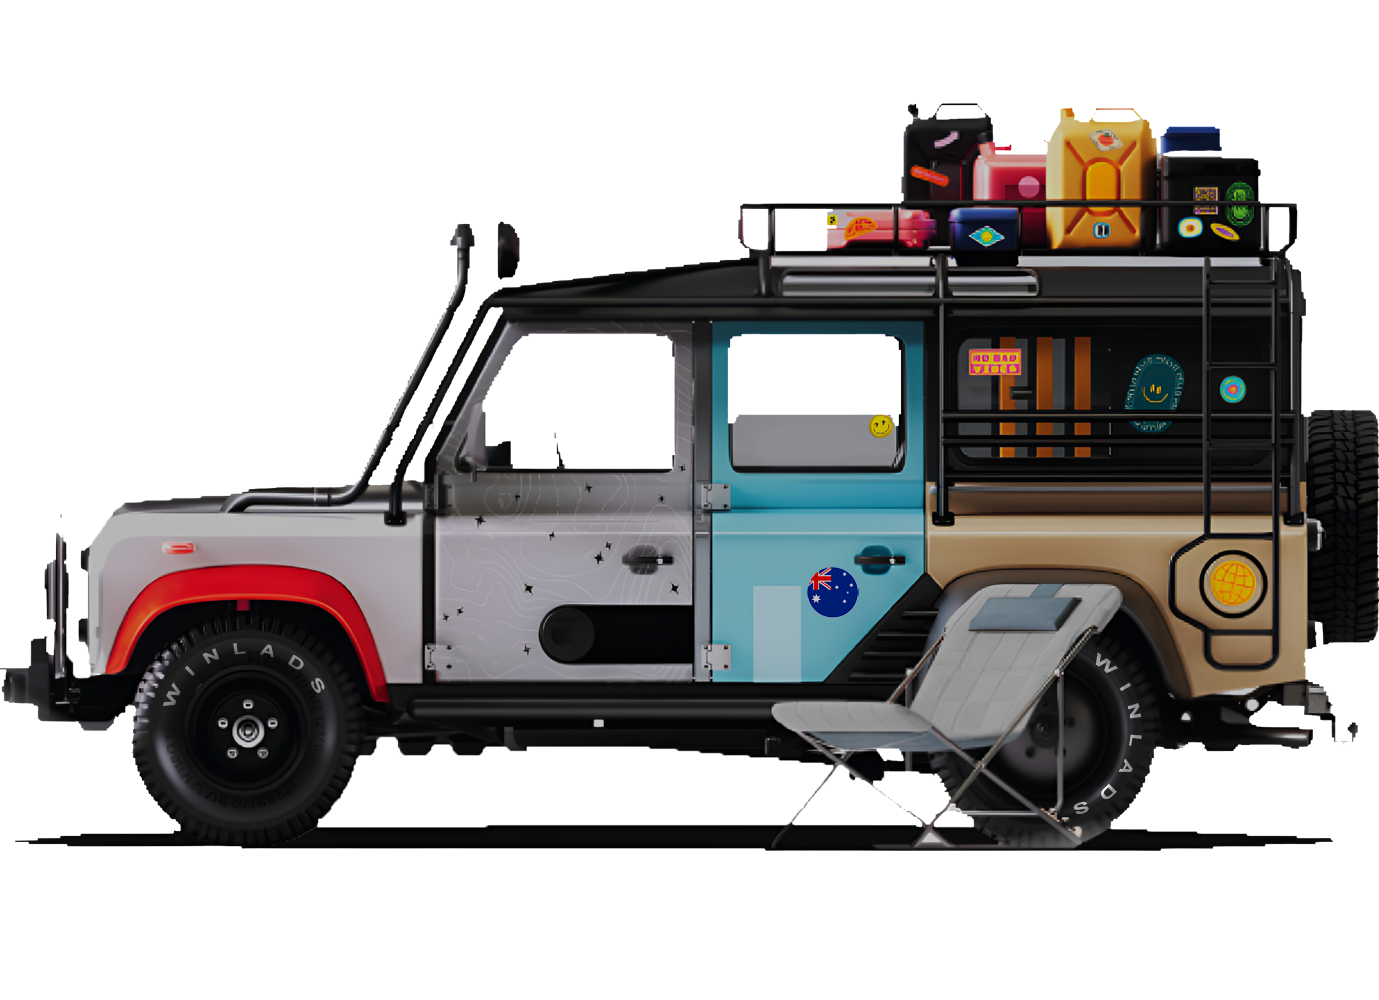
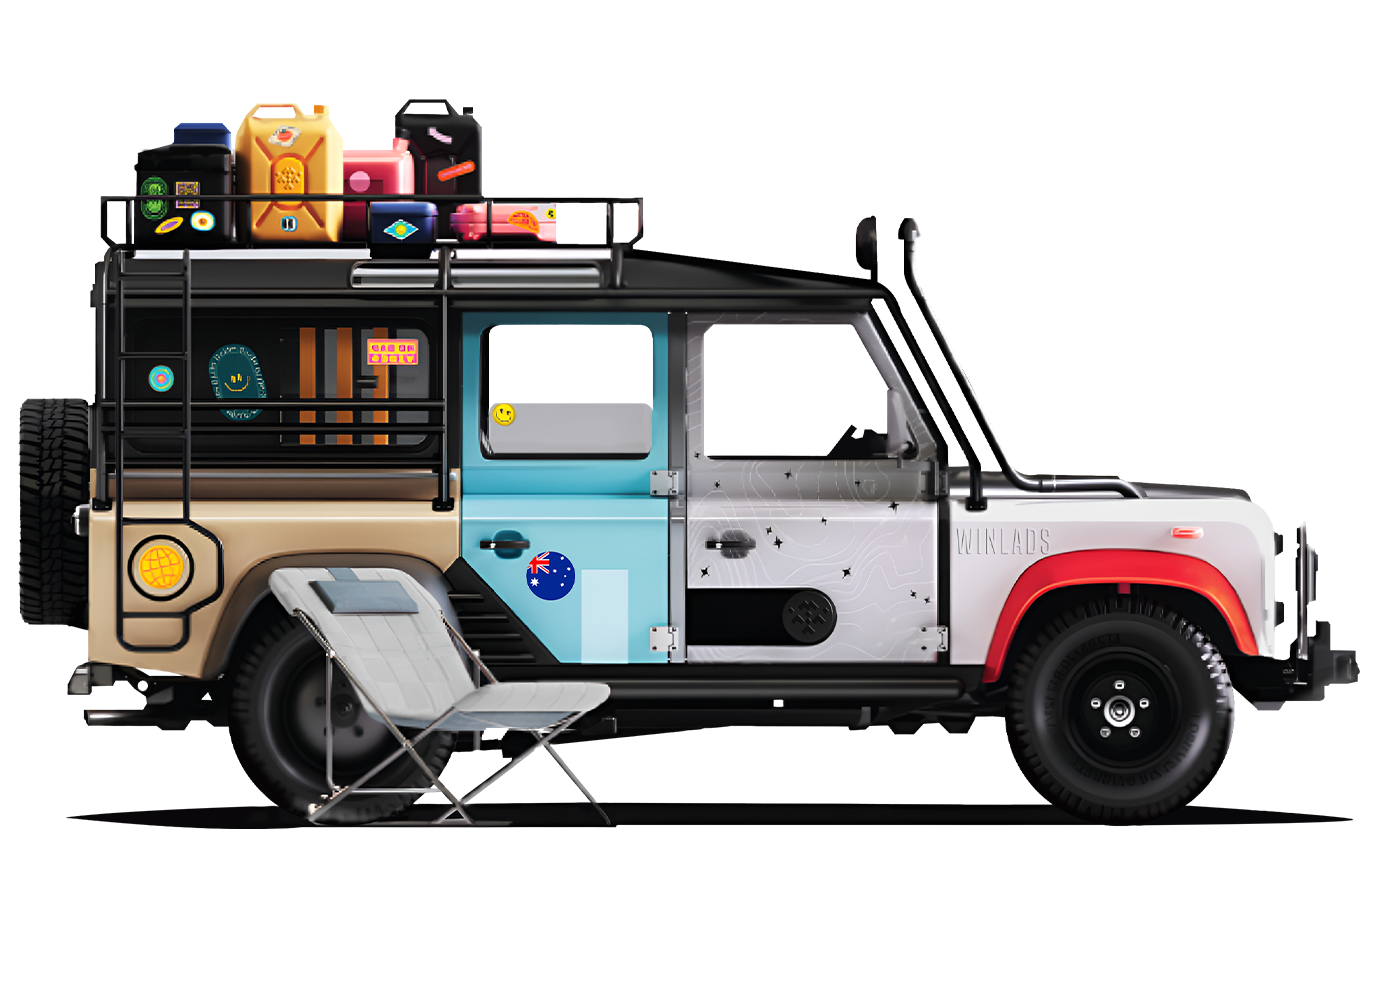
update

diff --git a/src/pages/Transaction/Transaction.jsx b/src/pages/Transaction/Transaction.jsx
@@ -188,7 +188,7 @@ const Transaction = () => {
           </div>
           <div className="flex xl:flex-row md:flex-row flex-col gap-1 xl:gap-2 md:gap-6 2xl:text-2xl special:text-3xl">
             <div
-              className="from-[#005887] to-black bg-gradient-to-r justify-between items-center rounded-2xl gap-1 py-2 xl:px-3 md:px-4 flex flex-1 flex-row px-2 cursor-default hover:bg-green-600/75"
+              className="from-[#005887] gap-4 to-black bg-gradient-to-r justify-between items-center rounded-2xl py-2 xl:px-3 md:px-4 flex flex-1 flex-row px-2 cursor-default hover:bg-green-600/75"
               style={{}}
             >
               <img
@@ -198,14 +198,14 @@ const Transaction = () => {
               />
               <div className="flex flex-col w-full">
                 <p className="text-white text-lg md:text-xl xl:text-xl 2xl:text-2xl special:text-3xl">
-                  $&nbsp;{Math.floor(wallet.balance * 100) / 100 || "0.00"}
+                  ${Math.floor(wallet.balance * 100) / 100 || "0.00"}
                 </p>
                 <p className="text-white text-sm md:text-lg xl:text-sm 2xl:text-xl special:text-2xl">
                   Balance
                 </p>
               </div>
             </div>
-            <div className="from-[#008767] to-black bg-gradient-to-r justify-between items-center rounded-2xl gap-1 py-2 xl:px-4 md:px-4 flex flex-1 flex-row px-2 cursor-default hover:bg-[#52A0DF]/75">
+            <div className="from-[#008767] to-black bg-gradient-to-r justify-between items-center rounded-2xl gap-4 py-2 xl:px-4 md:px-4 flex flex-1 flex-row px-2 cursor-default hover:bg-[#52A0DF]/75">
               <img
                 src={NewEarning}
                 alt=""
@@ -213,9 +213,8 @@ const Transaction = () => {
               />
               <div className="flex flex-col w-full">
                 <p className="text-white text-lg md:text-xl xl:text-xl 2xl:text-2xl special:text-3xl">
-                  $&nbsp;
-                  {wallet.earning
-                    ? Math.floor(wallet.earning * 100) / 100
+                  ${wallet.earning
+                    ? Math.floor(wallet.earning * 100) / 100 || "0.00"
                     : "0.00"}
                 </p>
                 <p className="text-white text-sm md:text-lg xl:text-sm 2xl:text-xl special:text-2xl">
@@ -224,7 +223,7 @@ const Transaction = () => {
               </div>
             </div>
 
-            <div className="from-[#CBAD11] to-black bg-gradient-to-r justify-between items-center rounded-2xl gap-1 py-2 xl:px-3 md:px-4 flex flex-1 flex-row px-2 cursor-default hover:bg-[#DF7E59]/75">
+            <div className="from-[#CBAD11] to-black bg-gradient-to-r justify-between items-center rounded-2xl gap-4 py-2 xl:px-3 md:px-4 flex flex-1 flex-row px-2 cursor-default hover:bg-[#DF7E59]/75">
               <img
                 src={NewPurcahase}
                 alt=""
@@ -232,9 +231,9 @@ const Transaction = () => {
               />
               <div className="flex flex-col w-full">
                 <p className="text-white text-lg md:text-xl xl:text-xl 2xl:text-2xl special:text-3xl">
-                  $&nbsp;
+                  $
                   {wallet.purchase
-                    ? Math.floor(wallet.purchase * 100) / 100
+                    ? Math.floor(wallet.purchase * 100) / 100 || "0.00"
                     : "0.00"}
                 </p>
                 <p className="text-white text-sm md:text-lg xl:text-sm 2xl:text-xl special:text-2xl">
@@ -403,7 +402,7 @@ const Transaction = () => {
                             : "green-400"
                         } text-lg`}
                       >
-                        $ {Math.floor((transaction.amount * 100))/100}
+                        ${Math.floor((transaction.amount * 100))/100}
           
                         
                       </p>

diff --git a/src/pages/register/Register.jsx b/src/pages/register/Register.jsx
@@ -456,7 +456,7 @@ const Register = ({ location }) => {
           <div className="flex items-start justify-between gap-12 md:flex-row flex-col px-10 xl:px-20 max-w-[1440px]">
             {/* <div className="login-contain flex items-center justify-center md:flex-row xl:flex-row 4xl:flex-row flex-col"> */}
             <div className="">
-              <div className="hidden md:block  transform scale-x-[-1]">
+              <div className="hidden md:block  transform">
                 <motion.img
                   initial={{ opacity: 0, x: "40%" }}
                   whileInView={{ opacity: 1, x: "0%" }}
@@ -467,7 +467,7 @@ const Register = ({ location }) => {
                 />
               </div>
               {/* Mobile View Jeep */}
-              <div className="block md:hidden w-full transform scale-x-[-1]">
+              <div className="block md:hidden w-full transform">
                 <motion.img
                   initial={{ opacity: 0, x: "40%" }}
                   whileInView={{ opacity: 1, x: "0%" }}

diff --git a/src/pages/Login/Login.jsx b/src/pages/Login/Login.jsx
@@ -305,7 +305,7 @@ const Login = () => {
               {/* <div className="img-container scale-150 mb-9 md:mb-0 prevent"> */}
               {/* Dekstop VIew Jeep */}
 
-              <div className="hidden md:block transform scale-x-[-1]">
+              <div className="hidden md:block transform">
                 <motion.img
                   initial={{ opacity: 0, x: "40%" }}
                   whileInView={{ opacity: 1, x: "0%" }}
@@ -316,7 +316,7 @@ const Login = () => {
                 />
               </div>
               {/* Mobile View Jeep */}
-              <div className="block md:hidden w-full transform scale-x-[-1]">
+              <div className="block md:hidden w-full transform">
                 <motion.img
                   initial={{ opacity: 0, x: "40%" }}
                   whileInView={{ opacity: 1, x: "0%" }}

diff --git a/src/components/TopNav/TopNav.jsx b/src/components/TopNav/TopNav.jsx
@@ -62,11 +62,11 @@ const TopNav = ({ textColor }) => {
         </span>
 
         <span className="navlinks">
-          <Link to="https://winlads.com/footer" target="_blank" rel="noopener noreferrer">Be a Partner</Link>
+          <Link to="https://winlads.com/#footer" target="_blank" rel="noopener noreferrer">Be a Partner</Link>
         </span>
 
         <span className="navlinks">
-          <Link to="https://winladsgiveaway.com/#/partners" target="_blank" rel="noopener noreferrer">Our Partners</Link>
+          <Link to="https://winladsgiveaway.com/#partners" target="_blank" rel="noopener noreferrer">Our Partners</Link>
         </span>
 
         <span className="navlinks">
